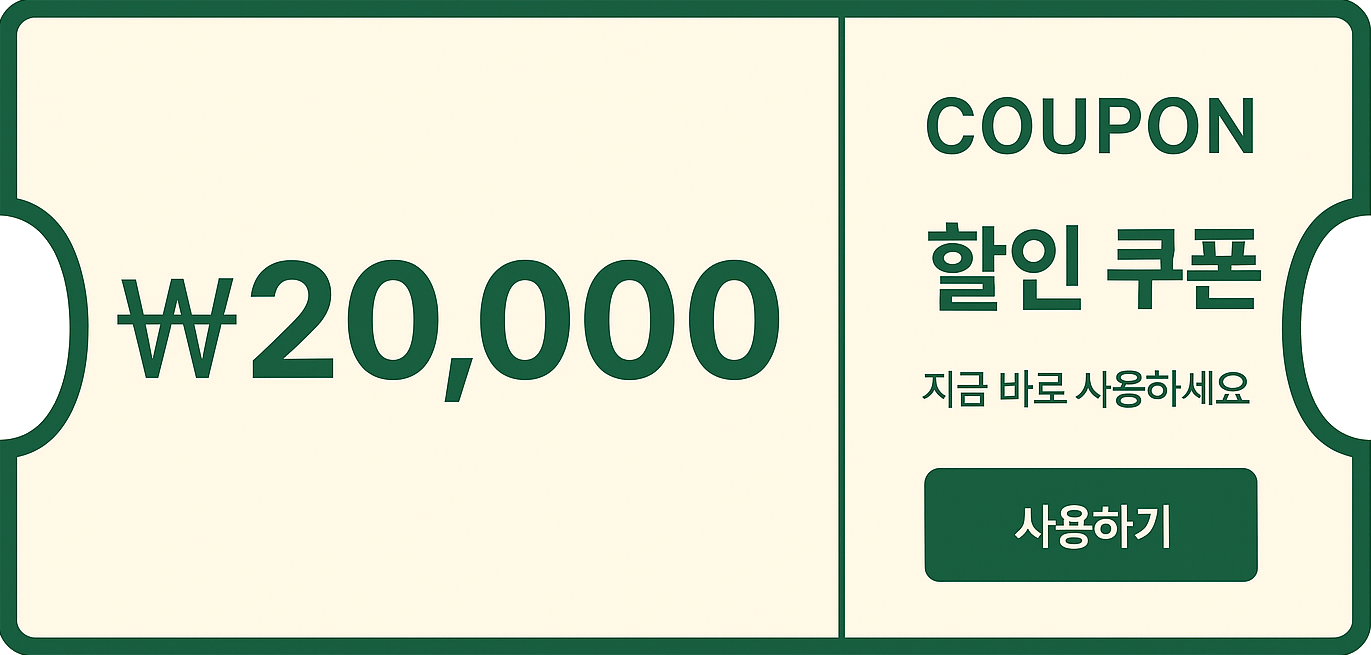
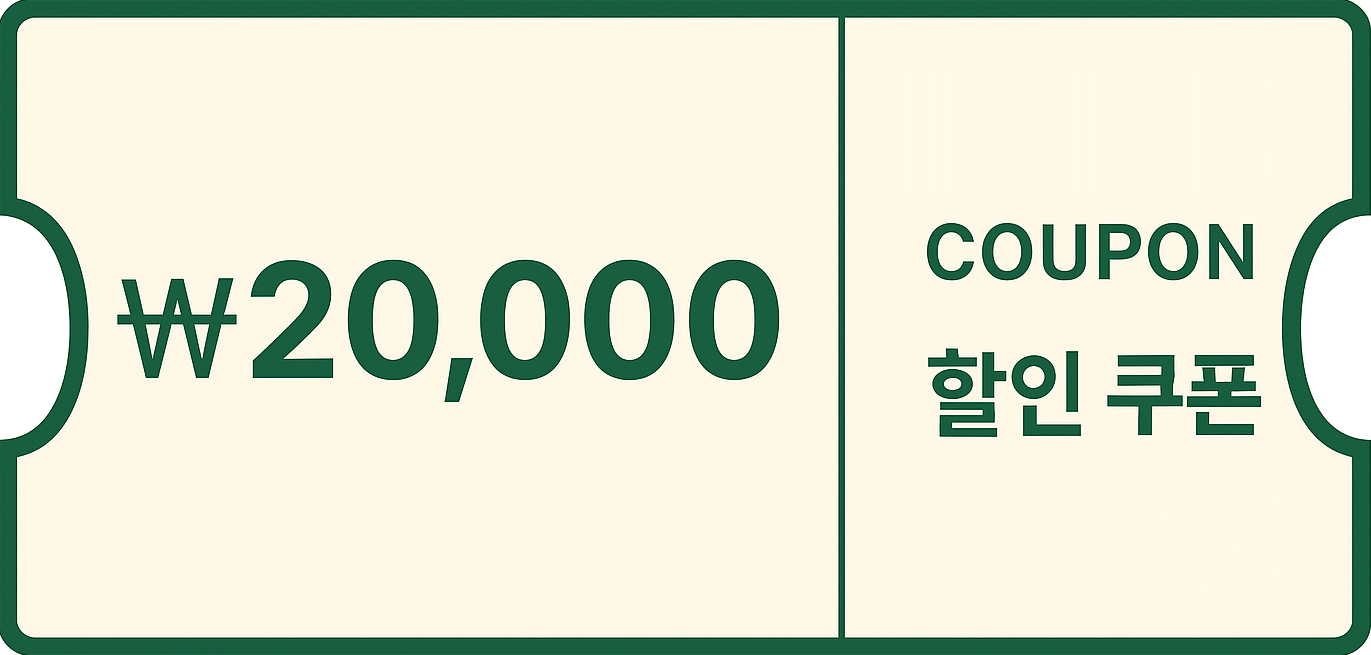
<fix> mypage css

diff --git a/src/pages/MyPage.jsx b/src/pages/MyPage.jsx
@@ -28,7 +28,7 @@ const MyPage = () => {
           </div>
           <div className="infoRow">
             <span>비밀번호</span>
-            <input type="password" defaultValue={password.current} />
+            <input type="text" defaultValue={password.current} />
           </div>
           <div className="infoRow">
             <span>생년월일</span>
@@ -38,13 +38,34 @@ const MyPage = () => {
         </div>
 
         {/* 가운데: 미션 */}
-        <div className="card missionCard">
-          <img className="stampImg" src={getCompleteMissionImage(0)} alt="" />
+        <div
+          className="card missionCard"
+          style={{
+            backgroundImage: `url(${getCompleteMissionImage(0)})`,
+            backgroundSize: "cover", // div에 맞게 꽉 채움
+            backgroundPosition: "center", // 가운데 정렬
+            backgroundRepeat: "no-repeat", // 반복 안 함
+          }}
+        >
+          <div className="kioskStampDiv">
+            <Stamp isShow={userState.loginedId.mission[0]}></Stamp>
+          </div>
+          <div className="naverBookStampDiv">
+            <Stamp isShow={userState.loginedId.mission[1]}></Stamp>
+          </div>
         </div>
 
         {/* 우측: 보상 */}
         <div className="card rewardCard">
           <div className="cardHeader">보상</div>
+          <p>키오스크 보상</p>
+          <div className="kiosk_coupon">
+            <Coupon isShow={userState.loginedId.mission[0]}></Coupon>
+          </div>
+          <p>네이버 예약 보상</p>
+          <div className="kiosk_coupon">
+            <Coupon isShow={userState.loginedId.mission[1]}></Coupon>
+          </div>
         </div>
       </div>
     </div>

diff --git a/src/components/MyPageComponents/Coupon.jsx b/src/components/MyPageComponents/Coupon.jsx
@@ -1,5 +1,6 @@
 import { useRef } from "react";
 import couponImg from "../../assets/myPage/couponImg.png";
+import couponImg_none from "../../assets/myPage/couponImg_none.png";
 import "./Coupon.css";
 
 const Coupon = (isShow) => {
@@ -41,7 +42,9 @@ const Coupon = (isShow) => {
       <div className="couponOverlay" ref={overlayRef}></div>
       <div
         className="couponCard"
-        style={{ backgroundImage: `url(${isShow.isShow ? couponImg : ""})` }}
+        style={{
+          backgroundImage: `url(${isShow.isShow ? couponImg : couponImg_none})`,
+        }}
       />
     </div>
   );

diff --git a/src/pages/MyPage.css b/src/pages/MyPage.css
@@ -108,3 +108,34 @@
   flex-direction: column;
   align-items: center;
 }
+.rewardCard p {
+  font-family: "Noto Sans KR", sans-serif;
+  font-weight: bold;
+}
+
+.kiosk_coupon {
+  width: 300px;
+  height: 100px;
+}
+.missionCard {
+  position: relative;
+  padding: 0px;
+  min-width: 600px;
+}
+
+.kioskStampDiv {
+  position: relative;
+  padding: 0px;
+  min-height: 600px; /* ← 이거 중요 */
+}
+
+.kioskStampDiv .stampDiv {
+  position: absolute;
+  top: 100px;
+  left: 130px;
+}
+.naverBookStampDiv .stampDiv {
+  position: absolute;
+  top: 365px;
+  left: 55px;
+}

diff --git a/src/components/MyPageComponents/Coupon.css b/src/components/MyPageComponents/Coupon.css
@@ -1,14 +1,14 @@
 .couponContainer {
-  width: 500px;
-  height: 200px;
+  width: 100%;
+  height: 100%;
   position: relative;
   transition: all 0.1s;
 }
 
 .couponOverlay {
   position: absolute;
-  width: 500px;
-  height: 200px;
+  width: 100%;
+  height: 100%;
   background: linear-gradient(
     105deg,
     transparent 40%,
@@ -27,8 +27,8 @@
 }
 
 .couponCard {
-  width: 500px;
-  height: 200px;
+  width: 100%;
+  height: 100%;
   background-size: cover;
   background-position: center;
   border-radius: 12px;

diff --git a/src/components/MyPageComponents/Stamp.css b/src/components/MyPageComponents/Stamp.css
@@ -1,6 +1,6 @@
 .stampDiv {
-  width: 240px;
-  height: 240px;
+  width: 90px;
+  height: 90px;
   perspective: 1000px;
   display: inline-block;
   border-radius: 100%;
